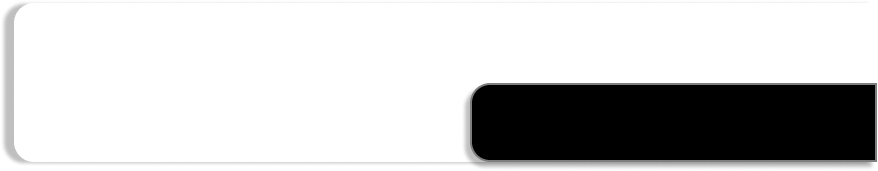
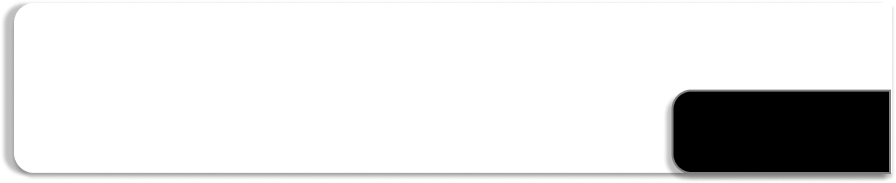
Save UI 리소스 변경, UI 스크립트 변경

Changed region(s): [[0.0, 0.4678, 1.0, 0.9942]]

diff --git a/data/others/plugin/theme_kopanda_bth_06_blue/bth06.css b/data/others/plugin/theme_kopanda_bth_06_blue/bth06.css
@@ -95,8 +95,8 @@
 	
 	width: 900px;
 	height: 1000px;
-	margin-top: 250px;
-	margin-left: 566px;
+	margin-top: 230px;
+	margin-left: 568px;
 	overflow-y: scroll;
 	-webkit-overflow-scrolling: touch;
 	-webkit-transform: translateZ(0);
@@ -137,7 +137,7 @@
 .save_list_item {
 	display:table-row;
 	width: 900px;
-	height: 163px;
+	height: 174px;
 	margin: 0;
 	padding: 0;
 	border: none;
@@ -145,8 +145,22 @@
 	cursor: pointer;
 }
 
+.save_list_item:hover > .save_list_item_thumb{
+	background: url('../../../image/New_GUI/Save_Button_Slot_02.png');
+	background-repeat: no-repeat;
+	background-position: left top;
+	background-color: none;
+}
+
+.save_list_item:hover > .save_list_item_area{
+	background: url('../../../image/New_GUI/Save_Button_Slot_02.png');
+	background-repeat: no-repeat;
+	background-position: right top;
+	background-color: none;
+}
+
 .save_list_item:hover {
-background-color: transparent;
+	background: none;
 }
 
 
@@ -155,33 +169,35 @@ background-color: transparent;
 /* セーブデータのサムネイル部分の設定 */
 .save_list_item_thumb {
 	position: relative;
-	display: table-cell;
+	border: white 1px solid;
+	border-radius: 8px;
 	width: 0px;
 	height: 0px;
 	margin: 0;
 	padding: 0;
-	
 }
 
 
 /* サムネイル画像の設定 */
 .save_list_item_thumb img {
-position: absolute;
-top:16px; left:48px;
+	position: absolute;
+	top:16px; left:33px;
 	border: white 1px solid;
 	border-radius: 8px;
-	width: 192px;
-	height: 108px;
-	margin: 15px 15px 0 19px;
+	width: 249.6px;
+	height: 140.4px;
+	margin: 0;
 	padding: 0;
+	z-index:1;
 }
 
 /* セーブデータのテキスト部文の設定 */
 .save_list_item_area {
 	display: table-cell;
 	position: relative;
-font-size: 20px;
-	width: 864px;
+	font-size: 20px;
+	left:-99px;
+	width: 1000px;
 	height: 124px;
 	padding: 24px 64px;
 	border:none;
@@ -194,33 +210,27 @@ font-size: 20px;
 	box-sizing: border-box;
 }
 
+/*
 .save_list_item_area:hover {
 background-color: transparent;
 background-repeat: no-repeat;
 	background-position: left top;
-background: url('../../../image/New_GUI/Save_Button_Slot_02.png');
+background: url('../../../image/New_GUI/Save_Button_Slot_01.png');
 }
-
-.save_list_item:hover > .save_list_item_area{
-	
-font-size: 24px;
- 
-}
-
-.save_list_item:hover >.save_list_item_thumb img{
-margin: 15px 5px 0 19px;
-}
+*/
 
 
 /* セーブデータの日付の設定 */
 .save_list_item_date {
 	display: block;
 	height: 24px;
-	margin: 0;
 	padding: 0;
+	position : absolute; 
+	left:800px; top:125px;
 	line-height: 1;
-	color: #C87137;
+	color: #FFF;
 	font-weight: bold;
+	font-size:16px;
 	box-sizing: border-box;
 }
 
@@ -238,6 +248,9 @@ margin: 15px 5px 0 19px;
 	color: #666666;
 	overflow: hidden;
 	box-sizing: border-box;
+	position: absolute;
+	left:400px;
+	top:40px;
 }
 
 

diff --git a/data/others/plugin/theme_kopanda_bth_06_blue/html/menu.html b/data/others/plugin/theme_kopanda_bth_06_blue/html/menu.html
@@ -1,7 +1,7 @@
 <div class="display_menu block_menu" align="center">
 
-	<div class='menu_item menu_close' style='float:left;margin:0;position:absolute;left:20px;top:600px'>
-	<img src='data/others/plugin/theme_kopanda_bth_06_blue/image/system/menu_button_close.png' />
+	<div class='menu_item menu_close' style='float:left;margin:0;position:absolute;left:205px;top:850px'>
+	<img src='data/image/New_GUI/Back_Button_01.png' />
 	</div>
 	
 	<div style='clear:both'></div>

diff --git a/data/others/plugin/theme_kopanda_bth_06_blue/html/save.html b/data/others/plugin/theme_kopanda_bth_06_blue/html/save.html
@@ -1,7 +1,7 @@
 <div>
 
-	<div class='menu_item menu_close' style='float:left;margin:0;position:absolute;left:20px;top:600px'>
-	<img src='data/others/plugin/theme_kopanda_bth_06_blue/image/system/menu_button_close.png' />
+	<div class='menu_item menu_close' style='float:left;margin:0;position:absolute;left:205px;top:850px'>
+	<img src='data/image/New_GUI/Back_Button_01.png' />
 	</div>
 
 	<div style='clear:both'></div>
